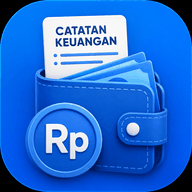
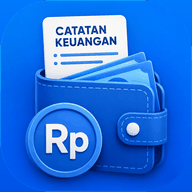
Perbaiki ikon PWA: sudut hitam diisi biru, tambah ikon maskable
Claude-Session: https://claude.ai/code/session_013RhX8G68NidWbcT8a67eQw

diff --git a/service-worker.js b/service-worker.js
@@ -1,4 +1,4 @@
-const CACHE_NAME = "catatan-keuangan-v3.7.1";
+const CACHE_NAME = "catatan-keuangan-v3.7.2";
 
 const FILES_TO_CACHE = [
   "./",
